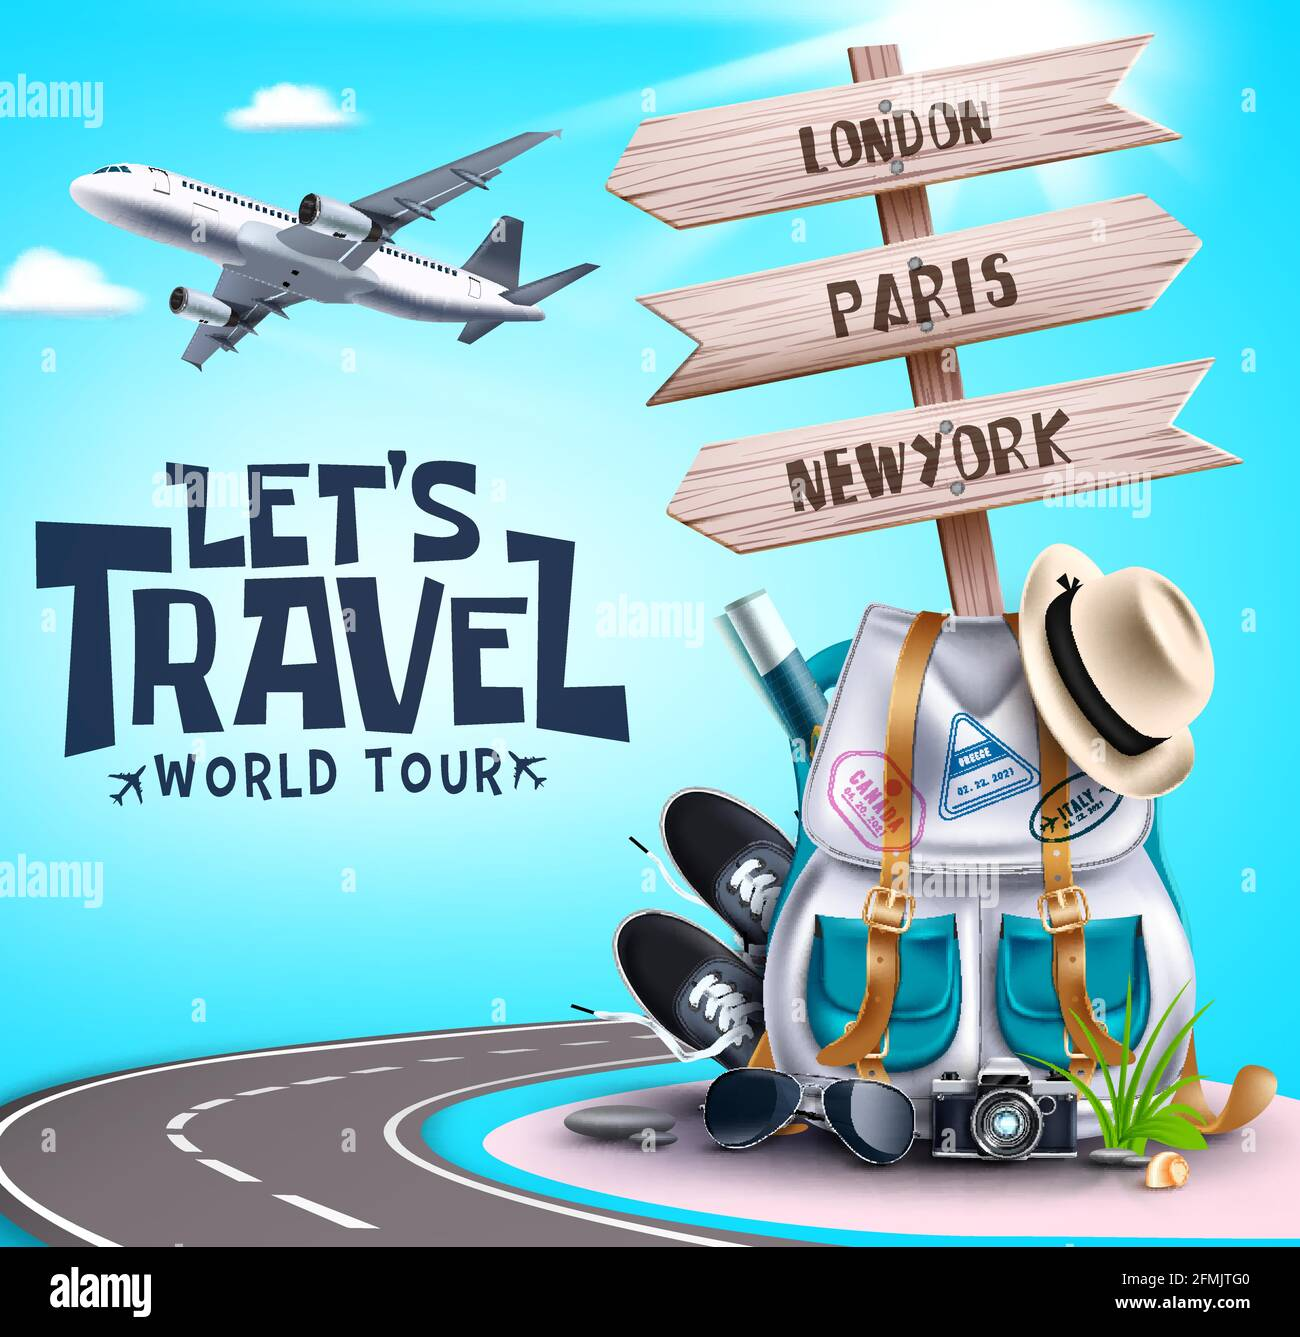
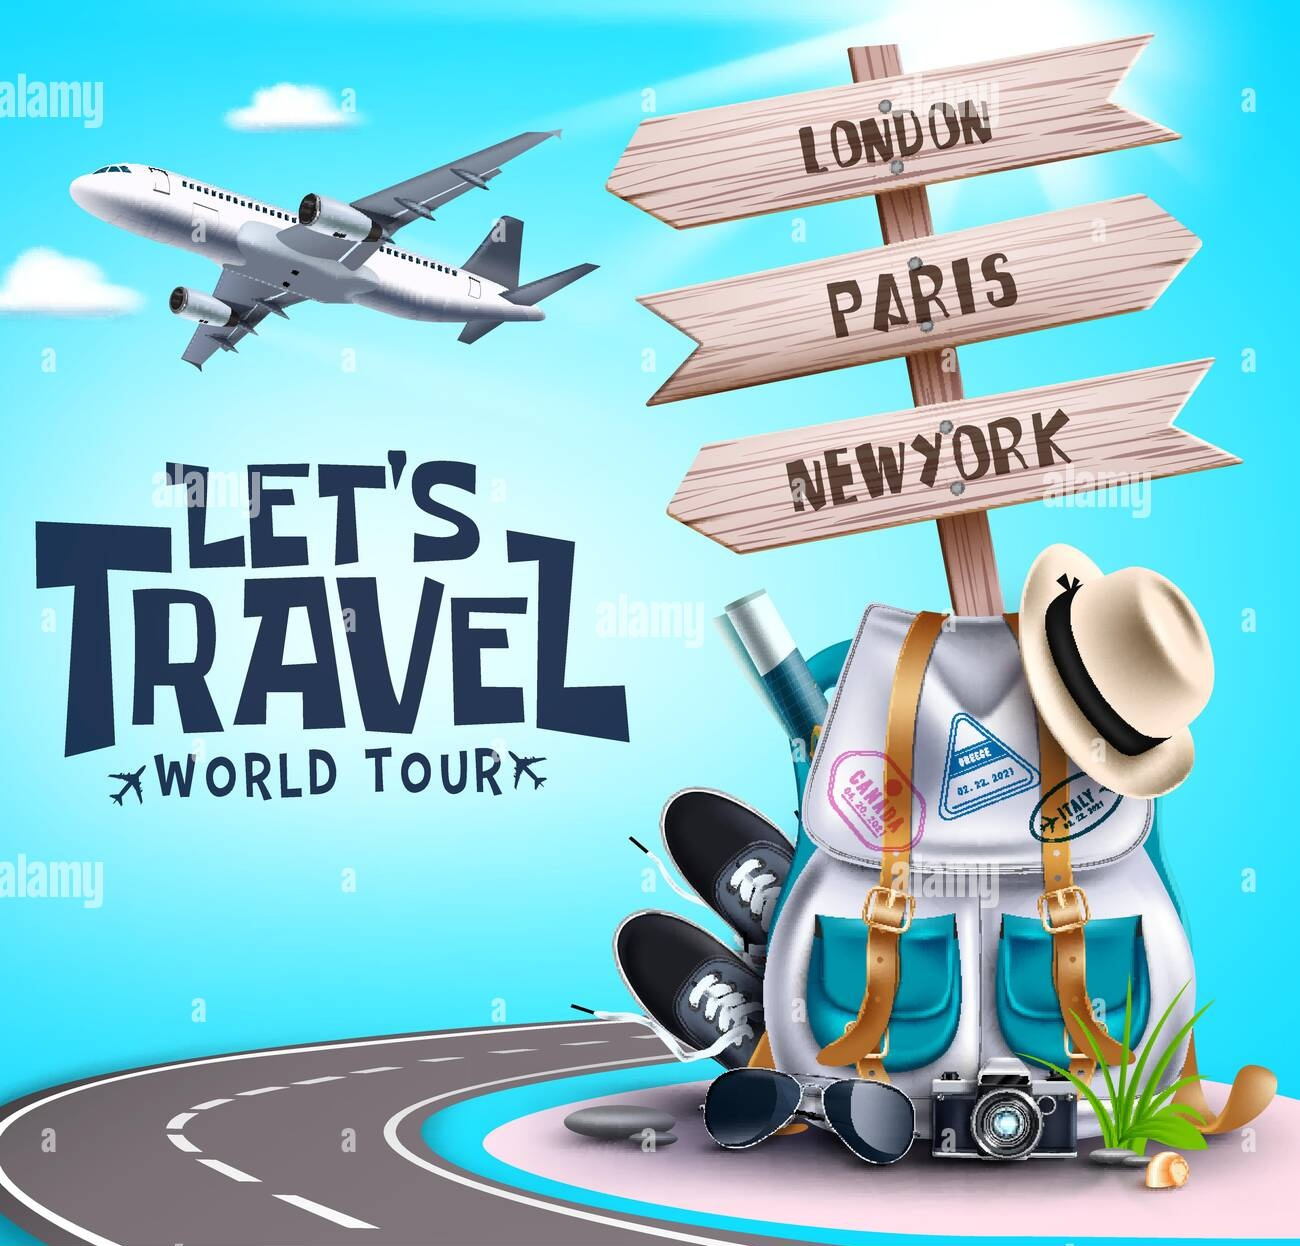
Added array functionality to project

diff --git a/script.js b/script.js
@@ -1,0 +1,70 @@
+// script.js
+
+const projects = [
+    {
+        title: "Portfolio Website",
+        description: "A personal portfolio website using HTML, CSS, and JS.",
+        category: "Web Design",
+        imageURL: "Card_Images/web-design.jpg",
+        link: "#"
+    },
+    {
+        title: "Portfolio App",
+        description: "A simple portfolio app to showcase projects.",
+        category: "App Development",
+        imageURL: "Card_Images/App-portfolio.jpg",
+        link: "#"
+    },
+    {
+        title: "Portfolio Photo",
+        description: "A collection of photos showcasing my work.",
+        category: "Photography",
+        imageURL: "Card_Images/Photo-portfolio.jpg",
+        link: "#"
+    },
+    {
+        title: "Portfolio Architecture",
+        description: "A portfolio of architectural designs.",
+        category: "Architecture",
+        imageURL: "Card_Images/Architecture-portfolio.jpg",
+        link: "#"
+    },
+    {
+        title: "Portfolio Travel",
+        description: "A collection of travel sites for your next adventure.",
+        category: "Travel",
+        imageURL: "Card_Images/Travel-design.jpg",
+        link: "#"
+    },
+    {
+        title: "Portfolio Sports",
+        description: "A collection of sport shows.",
+        category: "Sports",
+        imageURL: "Card_Images/Sports-events.jpg",
+        link: "#"
+    }
+];
+
+
+const container = document.getElementById("card-container");
+
+function renderCards(projectList) {
+    container.innerHTML = ""; // Clear previous cards
+
+    projectList.forEach(project => {
+        const card = document.createElement("article");
+
+        card.innerHTML = `
+            <img src="${project.imageURL}" alt="${project.title}">
+            <span>${project.category}</span>
+            <h3>${project.title}</h3>
+            <p>${project.description}</p>
+            <button onclick="window.open('${project.link}', '_blank')">View Project</button>
+        `;
+
+        container.appendChild(card);
+    });
+}
+
+// Initial render
+renderCards(projects);